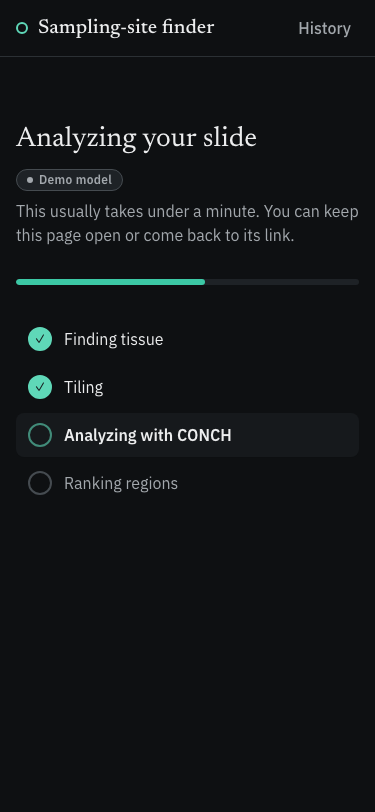
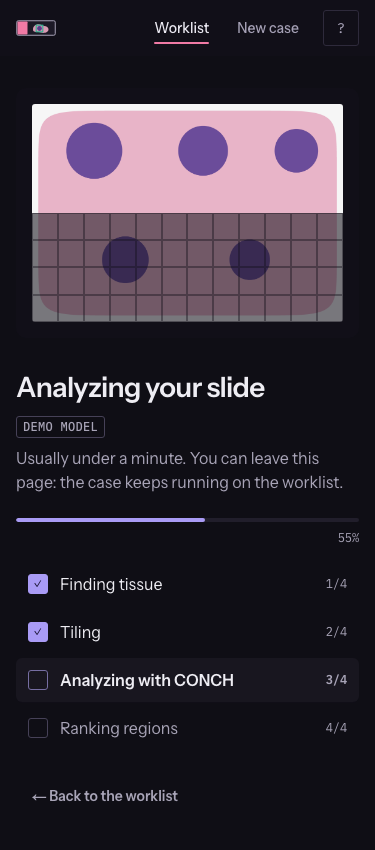
e2e, screenshots and docs for the redesign; polish from the walk-through
- Playwright: worklist row with local label, a two-slide batch with J and the
  sampling sheet, 375 px checks on the worklist and sheet; screenshots retaken
  (home/history replaced by worklist, worklist-empty and sheet).
- Fixes found on the way: thumbnails no longer request an image before it
  exists (console 404s); the sheet table scrolls on phones; the 1 mm scale bar
  is drawn in marker black; the header fits at 375 px; scored preview tiles
  lose their grid lines; the case heading's accessible name is 'Case <label>'.
- README and reports/decisions.md describe the pathologist features and why
  labels and notes stay in the browser.

diff --git a/frontend/e2e/flows.spec.ts b/frontend/e2e/flows.spec.ts
@@ -1,5 +1,5 @@
 import { readFileSync } from 'node:fs'
-import { expect, fixture, regionBoxes, test, uploadFromHome } from './fixtures'
+import { expect, fixture, regionBoxes, resultsReady, test, uploadFromHome } from './fixtures'
 
 const pct = (fraction: number) => `${Math.round(fraction * 100)}%`
 const LABELS: Record<string, string> = {
@@ -14,7 +14,7 @@ const LABELS: Record<string, string> = {
 test('full flow: upload a slide, see 5 regions, open region 3', async ({ page, request }) => {
   const id = await uploadFromHome(page, fixture('slide'))
 
-  await expect(page.getByRole('heading', { name: 'Suggested sampling sites' })).toBeVisible({ timeout: 30_000 })
+  await resultsReady(page)
   await expect(regionBoxes(page)).toHaveCount(5)
   await expect(page.getByText('Demo model').first()).toBeVisible()
 
@@ -49,23 +49,56 @@ test('full flow: upload a slide, see 5 regions, open region 3', async ({ page, r
   expect(b.width).toBeCloseTo(region3.w * scale, 0)
 })
 
-test('history: a finished analysis gets a card that opens its results', async ({ page }) => {
+test('worklist: a finished case gets a row with its numbers, and the local label follows it', async ({ page }) => {
   const id = await uploadFromHome(page, fixture('slide'))
-  await expect(page.getByRole('heading', { name: 'Suggested sampling sites' })).toBeVisible({ timeout: 30_000 })
-  await expect(page.getByText('Cancer type')).toBeVisible()
+  await resultsReady(page)
+  await page.getByRole('textbox', { name: 'Case label' }).fill('E2E-A1')
 
-  await page.getByRole('navigation').getByRole('link', { name: 'History' }).click()
-  await expect(page).toHaveURL(/\/history$/)
-  await expect(page.getByRole('heading', { name: 'History' })).toBeVisible()
-  const card = page.getByRole('link', { name: /Analysis/ }).first() // newest first
-  await expect(card).toHaveAttribute('href', `/jobs/${id}`)
-  await expect(card).toContainText('Not identified yet')
-  await expect(card).toContainText('Done')
-  await expect(card.locator('time')).toHaveAttribute('datetime', /^\d{4}-\d{2}-\d{2}T/)
+  await page.getByRole('navigation', { name: 'Main' }).getByRole('link', { name: 'Worklist' }).click()
+  await expect(page).toHaveURL(/\/$/)
+  await expect(page.getByRole('heading', { name: 'Worklist' })).toBeVisible()
+  const row = page.getByRole('listitem').filter({ has: page.getByRole('link', { name: 'Open case E2E-A1' }) })
+  await expect(row.getByRole('link')).toHaveAttribute('href', `/jobs/${id}`)
+  await expect(row).toContainText('tumor, best region')
+  await expect(row.locator('time')).toHaveAttribute('datetime', /^\d{4}-\d{2}-\d{2}T/)
+  await expect(row.getByTestId('thumb').locator('img')).toHaveAttribute('src', `/api/jobs/${id}/display.png`)
 
-  await card.click()
+  await row.getByRole('link').click()
   await expect(page).toHaveURL(new RegExp(`/jobs/${id}$`))
   await expect(regionBoxes(page)).toHaveCount(5)
+})
+
+test('a batch: two slides become two cases; J moves to the next one; the sampling sheet opens', async ({ page }) => {
+  // Other tests' cases share this worklist, so these two are told apart by their (local) labels.
+  await page.goto('/upload')
+  await page.locator('input[type="file"]').setInputFiles([fixture('slide'), fixture('slide')])
+  const labels = page.getByRole('textbox', { name: /^Case label for/ })
+  await labels.nth(0).fill('BATCH-1')
+  await labels.nth(1).fill('BATCH-2')
+  await page.getByRole('button', { name: 'Analyze 2 slides' }).click()
+  await expect(page).toHaveURL(/\/$/)
+  const one = page.getByRole('link', { name: 'Open case BATCH-1' })
+  const two = page.getByRole('link', { name: 'Open case BATCH-2' })
+  await expect(one).toBeVisible({ timeout: 10_000 })
+  await expect(two).toBeVisible()
+  for (const link of [one, two]) {
+    await expect(page.getByRole('listitem').filter({ has: link })).toContainText('tumor, best region', { timeout: 30_000 })
+  }
+
+  // Newest first: BATCH-2 is listed above BATCH-1, so "next" from BATCH-2 is BATCH-1.
+  const firstHref = (await one.getAttribute('href'))!
+  await two.click()
+  await resultsReady(page)
+  await page.locator('body').click({ position: { x: 5, y: 5 } })
+  await page.keyboard.press('j')
+  await expect(page).toHaveURL(new RegExp(`${firstHref}$`))
+
+  await resultsReady(page)
+  await expect(page.getByRole('textbox', { name: 'Case label' })).toHaveValue('BATCH-1')
+  await page.getByRole('link', { name: 'Sampling sheet' }).click()
+  await expect(page.getByRole('heading', { name: 'Sampling sheet' })).toBeVisible()
+  await expect(page.getByTestId('sheet-label')).toHaveText('BATCH-1')
+  await expect(page.getByTestId('sheet-instruction')).toContainText('Macrodissect region 1')
 })
 
 test('box size: 1 mm re-ranks through the API, and 0.5 mm brings the original boxes back', async ({ page, request }) => {
@@ -75,7 +108,7 @@ test('box size: 1 mm re-ranks through the API, and 0.5 mm brings the original bo
   const big = await (await request.get(`/api/jobs/${id}/regions?box_um=1024`)).json()
   expect(big.regions.length).toBeGreaterThan(0)
 
-  const sizes = page.getByRole('radiogroup', { name: 'Box size' })
+  const sizes = page.getByRole('radiogroup', { name: /box size/i })
   await sizes.getByText('1 mm', { exact: true }).click()
   await expect(regionBoxes(page)).toHaveCount(big.regions.length)
   await expect(page.getByRole('region', { name: 'Region details' }).getByTestId('size')).toContainText('1024 µm')
@@ -176,7 +209,7 @@ test('error flow: a blank image ends in the error state, and "Try another image"
   await expect(page.getByText('No tissue found in this image.')).toHaveAttribute('role', 'alert', { timeout: 30_000 })
   await page.getByRole('link', { name: 'Try another image' }).click()
   await expect(page).toHaveURL(/\/upload$/)
-  await expect(page.getByRole('heading', { name: 'Analyze a slide' })).toBeVisible()
+  await expect(page.getByRole('heading', { name: 'New case' })).toBeVisible()
 })
 
 test('an upload over 10 MB reaches FastAPI through the Next.js rewrite', async ({ request }) => {
@@ -198,15 +231,18 @@ test.describe('at 375 px', () => {
 
     await page.goto('/')
     await noHorizontalScroll()
-    await uploadFromHome(page, fixture('slide'))
+    const id = await uploadFromHome(page, fixture('slide'))
     await expect(regionBoxes(page)).toHaveCount(5, { timeout: 30_000 })
     await noHorizontalScroll()
-    await page.getByRole('link', { name: 'New analysis' }).click()
+    await page.getByRole('navigation', { name: 'Main' }).getByRole('link', { name: 'New case' }).click()
     await expect(page).toHaveURL(/\/upload$/)
     await page.locator('input[type="file"]').setInputFiles(fixture('slide'))
     await noHorizontalScroll()
-    await page.goto('/history')
-    await expect(page.getByRole('heading', { name: 'History' })).toBeVisible()
+    await page.goto('/')
+    await expect(page.getByRole('heading', { name: 'Worklist' })).toBeVisible()
+    await noHorizontalScroll()
+    await page.goto(`/jobs/${id}/sheet`)
+    await expect(page.getByRole('heading', { name: 'Sampling sheet' })).toBeVisible()
     await noHorizontalScroll()
   })
 })

diff --git a/frontend/components/SamplingSheet.tsx b/frontend/components/SamplingSheet.tsx
@@ -132,8 +132,9 @@ export default function SamplingSheet({
             )}
             {mmPx && (
               <div className="absolute right-3 bottom-3 text-right">
-                <div data-testid="scale-bar" style={{ width: percent(mmPx, width) }} className="ml-auto border-x-2 border-b-2 border-box-other pt-1.5 text-center">
-                  <span className="relative -top-5 font-mono text-[10px] font-semibold text-box-other">1 mm</span>
+                <div data-testid="scale-bar" style={{ width: percent(mmPx, width) }} className="ml-auto text-center">
+                  <span className="mb-1 inline-block rounded-[2px] bg-box-outline px-1 font-mono text-[10px] font-semibold text-box-other">1 mm</span>
+                  <span aria-hidden className="block h-1.5 border-x-2 border-b-2 border-box-outline" />
                 </div>
               </div>
             )}
@@ -144,7 +145,8 @@ export default function SamplingSheet({
           </figcaption>
         </figure>
 
-        <table aria-label="Regions" className="mt-6 w-full border-collapse text-sm">
+        <div className="mt-6 overflow-x-auto print:overflow-visible">
+        <table aria-label="Regions" className="w-full min-w-[30rem] border-collapse text-sm">
           <thead>
             <tr className="border-b border-ink text-left text-xs uppercase tracking-wide text-ink-muted">
               <th className="py-1.5 pr-3 font-medium">Region</th>
@@ -183,6 +185,7 @@ export default function SamplingSheet({
             )}
           </tbody>
         </table>
+        </div>
         <p className="mt-2 text-xs text-ink-muted">
           Minimum tumor fraction for sequencing: <span className="num">{threshold}%</span>. Fractions are estimated from tile
           classification, not cell counts.

diff --git a/frontend/e2e/screenshots.spec.ts b/frontend/e2e/screenshots.spec.ts
@@ -27,9 +27,9 @@ for (const width of WIDTHS) {
     test.describe(`${width} px, ${theme}`, () => {
       test.use({ viewport: { width, height: width < 768 ? 812 : 900 }, colorScheme: theme })
 
-      test('home, upload, analyzing, results and error screens', async ({ page }) => {
+      test('worklist, upload, analyzing, results, sampling sheet and error screens', async ({ page }) => {
         await page.goto('/')
-        await shoot(page, 'home', width, theme)
+        await shoot(page, 'worklist-empty', width, theme)
 
         await chooseFile(page, fixture('slide'))
         await shoot(page, 'upload', width, theme)
@@ -58,15 +58,19 @@ for (const width of WIDTHS) {
         await expect(page.getByTestId('heatmap')).toBeVisible()
         await page.getByRole('button', { name: /^Region 3:/ }).click()
         await shoot(page, 'results-heatmap', width, theme)
+        const jobUrl = page.url()
+        await page.goto(`${jobUrl}/sheet`)
+        await expect(page.getByTestId('sheet-instruction')).toContainText('Macrodissect')
+        await shoot(page, 'sheet', width, theme)
 
         await chooseFile(page, fixture('blank'))
         await page.getByRole('button', { name: 'Analyze slide' }).click()
         await expect(page.getByText('No tissue found in this image.')).toBeVisible({ timeout: 30_000 })
         await shoot(page, 'error', width, theme)
 
-        await page.goto('/history')
-        await expect(page.getByRole('link', { name: /Analysis/ }).first()).toBeVisible()
-        await shoot(page, 'history', width, theme)
+        await page.goto('/')
+        await expect(page.getByRole('link', { name: /^Open case/ }).first()).toBeVisible()
+        await shoot(page, 'worklist', width, theme)
       })
     })
   }

diff --git a/frontend/e2e/fixtures.ts b/frontend/e2e/fixtures.ts
@@ -24,10 +24,10 @@ export const test = base.extend<{ consoleErrors: string[] }>({
 
 export { expect }
 
-// Home → upload screen → pick a file → submit. Returns the job id from the URL.
+// Worklist → New case → pick a file → submit. Returns the job id from the URL.
 export async function uploadFromHome(page: Page, file: string) {
   await page.goto('/')
-  await page.getByRole('link', { name: 'Analyze a slide' }).click()
+  await page.getByRole('navigation', { name: 'Main' }).getByRole('link', { name: 'New case' }).click()
   await expect(page).toHaveURL(/\/upload$/)
   await page.locator('input[type="file"]').setInputFiles(file)
   await page.getByRole('button', { name: 'Analyze slide' }).click()
@@ -36,3 +36,6 @@ export async function uploadFromHome(page: Page, file: string) {
 }
 
 export const regionBoxes = (page: Page) => page.getByRole('button', { name: /^Region \d/ })
+
+// The results workspace is ready once its region table is on screen.
+export const resultsReady = (page: Page) => expect(page.getByRole('table', { name: 'Regions' })).toBeVisible({ timeout: 30_000 })

diff --git a/frontend/components/UploadForm.tsx b/frontend/components/UploadForm.tsx
@@ -200,11 +200,12 @@ export default function UploadForm() {
                       onChange={(e) => update(item.key, { label: e.target.value })}
                       disabled={item.state === 'sending' || item.state === 'sent'}
                       aria-label={`Case label for ${item.file.name}`}
-                      placeholder="Case label (stays on this computer)"
+                      placeholder="Case label, optional"
                       spellCheck={false}
                       className="h-8 w-full max-w-64 rounded-sm border border-line-strong bg-canvas px-2 font-mono text-sm text-ink placeholder:font-sans placeholder:text-xs placeholder:text-ink-muted"
                     />
                   </label>
+                  <p className="mt-1 text-[11px] text-ink-muted">Labels stay on this computer.</p>
                   {item.state === 'failed' && (
                     <p role="alert" className="mt-1 text-sm text-danger">
                       {item.error}

diff --git a/frontend/components/SiteHeader.tsx b/frontend/components/SiteHeader.tsx
@@ -18,12 +18,12 @@ export default function SiteHeader() {
       <div className="mx-auto flex h-14 max-w-[90rem] items-center gap-6 px-4 sm:px-6">
         <Link href="/" className="flex items-center gap-3 rounded-sm">
           <Logo className="h-4 w-10" />
-          <span className="text-base font-semibold tracking-tight">
+          <span className="sr-only sm:not-sr-only sm:text-base sm:font-semibold sm:tracking-tight sm:whitespace-nowrap">
             Sampling-site finder
             <span className="ml-2 hidden font-mono text-xs font-normal text-stage-muted sm:inline">research</span>
           </span>
         </Link>
-        <nav aria-label="Main" className="ml-auto flex items-center gap-1">
+        <nav aria-label="Main" className="ml-auto flex items-center gap-1 whitespace-nowrap">
           {NAV.map((n) => {
             const current = n.match(path)
             return (

diff --git a/frontend/components/Worklist.tsx b/frontend/components/Worklist.tsx
@@ -274,7 +274,8 @@ function Thumb({ job }: { job: JobSummary }) {
     <div data-testid="thumb" className="relative row-span-2 flex aspect-[7/3] items-center overflow-hidden rounded-sm bg-stage p-1 sm:row-span-1">
       <span aria-hidden className="h-full w-3 shrink-0 rounded-[2px] bg-eosin/80" />
       <div className="relative ml-1 h-full flex-1">
-        {job.status !== 'error' && (
+        {/* The display image exists from the tiling step on (progress 0.15); asking earlier is a 404. */}
+        {(job.status === 'done' || (job.status === 'running' && (job.progress ?? 0) >= 0.15)) && (
           <div className="relative mx-auto h-full" style={{ aspectRatio: `${w} / ${h}` }}>
             {/* eslint-disable-next-line @next/next/no-img-element */}
             <img src={`/api/jobs/${job.id}/display.png`} alt="" loading="lazy" className="h-full w-full object-contain" />

diff --git a/frontend/components/CaseBar.tsx b/frontend/components/CaseBar.tsx
@@ -45,14 +45,10 @@ export default function CaseBar({
         </Link>
         <div className="mt-2 flex flex-wrap items-center gap-x-3 gap-y-2">
           <h1 className="text-xl font-semibold tracking-tight">
-            <label htmlFor={field} className="sr-only">
-              Case label
-            </label>
-            <span aria-hidden className="mr-2 text-ink-muted">
-              Case
-            </span>
+            <span className="mr-2 text-ink-muted">Case</span>
             <input
               id={field}
+              aria-label="Case label"
               value={label}
               onChange={(e) => onLabel(e.target.value)}
               placeholder="add a label"

diff --git a/frontend/components/Analyzing.tsx b/frontend/components/Analyzing.tsx
@@ -67,7 +67,7 @@ export default function Analyzing({ id, status }: { id?: string; status: JobStat
                   key={i}
                   data-testid="preview-tile"
                   data-lit={i < lit}
-                  className={`border-[0.5px] border-stage/40 transition-colors duration-slow ${i < lit ? 'bg-transparent' : 'bg-stage/55'}`}
+                  className={`border-[0.5px] transition-colors duration-slow ${i < lit ? 'border-transparent bg-transparent' : 'border-stage/40 bg-stage/55'}`}
                 />
               ))}
             </div>

diff --git a/reports/decisions.md b/reports/decisions.md
@@ -201,3 +201,18 @@ One line each: decision + reason.
 - The box is re-scored while it's being dragged, not only on release: every pointer move asks the measure endpoint, with at most one request out at a time and only the newest box waiting behind it, so the numbers keep up without a request per pixel. Drawing a new box is scored the same way. Arrow keys still wait 300 ms after the last key.
 - All scoring stays in Python (the measure endpoint); the frontend holds no ML, as the README says.
 - The 0.5 / 1 / 2 mm picker is unchanged: it re-ranks the five suggestions at a punch size, which is a different job from reshaping one box.
+
+## Pathologist-first redesign ("the bench")
+- The UI was rebuilt around a pathologist's day rather than one upload at a time: a worklist home, a case workspace, batch upload and a sampling sheet. Design rationale and tokens: `frontend/DESIGN.md`.
+- Look: chrome in stain colors (hematoxylin indigo for actions, eosin rose as the one highlight), annotations in marker ink (the box tokens and their contrast tests are unchanged), the slide on a dark stage in both themes, Instrument Sans + IBM Plex Mono (Newsreader and Plex Sans removed). Every new color pair has a contrast test; stage tokens are tested to stay the same in dark mode.
+- Home is the worklist; `/history` redirects to it. `GET /api/jobs` summaries gained organ, best-region tumor/necrosis, region count, progress, the best box and the image size, all read from the stored Result JSON and the live job. Nothing new is stored.
+- Thumbnails load `display.png` only once it exists (done, or running past the tiling step at progress 0.15), so a fresh case doesn't log a 404.
+- The sequencing threshold (default 20%) and each case's label, notes, reviewed tick and own box live in `localStorage` (`lib/casebook.ts`). They never reach the API or the Postgres history, because labels and notes can identify a patient; a test checks that uploads send only file, mpp and organ, and another that typing a label or note makes no request carrying it. The trade-off: they don't follow the user to another browser.
+- "Meets the threshold" compares the rounded percentage shown (62% vs. 20), so a box shown as 20% never reads as below a 20% minimum.
+- Zoom widens the slide inside a scrolling stage instead of using CSS transforms, so box drawing and resizing (which measure the image as drawn) work unchanged at every zoom. Ctrl/⌘ + scroll zooms around the pointer; the listener is non-passive so the page itself doesn't zoom.
+- Keyboard shortcuts ignore keys typed in fields and keys with Ctrl/⌘/Alt held. J/K follow worklist order (newest first), so J ("next") moves to the case below.
+- Batch upload sends slides one after another and lands on the worklist; a single slide still opens its case. A failed upload keeps its reason and can be resent; sent ones link to their case.
+- The analyzing screen shows the uploaded image (available from the tiling step) with a 12 × 8 grid that lights up with progress. It's a picture of progress, not of the real tile grid, and the code says so.
+- The sampling sheet takes the pathologist's own box (from this browser), re-measured, as the instruction when there is one, else region 1. Its 1 mm scale bar comes from any region's known size. Print styles drop the header and force a white page with exact colors.
+- Tests: Node 26 defines its own `localStorage` global (undefined without `--localstorage-file`), which hid jsdom's, so `vitest.setup.ts` installs an in-memory one. Unit tests can't mount Next's router, so the results screen opens the sheet with `window.location.assign` for the P key.
+- Removed with their tests: `RequestCard`, `RequestMeta` and the old history page; their behavior (one link per case, machine-readable time, demo badge, status) is covered by the worklist tests.

diff --git a/README.md b/README.md
@@ -1,12 +1,24 @@
 # ashby-puppymoggers
 
-A web app for the Ashby Hackathon (UIUC). Upload a photo or scan of an H&E biopsy slide, and it suggests the five best regions to sample. The backend tiles the image, scores each tile with the CONCH pathology model (zero-shot), and ranks regions by tumor content, necrosis and evenness. Each suggestion comes with its estimated tissue composition and rule-based reasons. The results screen lets you switch the box size (0.5, 1 or 2 mm, to match the punch or core you'll cut); this re-ranks the stored tile scores without running the model again. You can also draw your own box of any shape, or adjust a suggested one: drag to move it, drag a handle to resize it (arrow keys work too), and its composition and score are measured from the same tile scores. **Research prototype, not for clinical use.**
+A web app for the Ashby Hackathon (UIUC) that helps a pathologist decide where to cut. Upload one H&E slide or a batch (scans or photos). The backend tiles each image, scores every tile with the CONCH pathology model (zero-shot), and ranks regions by tumor content, necrosis and evenness. **Research prototype, not for clinical use.**
+
+What a pathologist gets:
+
+- **Worklist:** every case with a slide thumbnail, best-region tumor %, a "ready for sequencing" verdict, live progress for running cases, search, filters and a reviewed tick.
+- **Case workspace:**
+  - the slide on a dark stage, with zoom and a tumor heatmap at adjustable opacity;
+  - the five suggested regions as numbered boxes and in a sortable table;
+  - each region checked against the lab's minimum tumor fraction for sequencing (default 20%).
+- **Boxes you can reshape:** grab any box by a corner or edge, or draw your own; the numbers are re-measured while you drag, from the stored tile scores. Suggestions can also be re-ranked at 0.5, 1 or 2 mm to match a punch.
+- **Sampling sheet:** a print-ready page for the histotech, with the instruction, the slide with numbered boxes and a 1 mm scale bar, the region table, notes and sign-off lines. **Copy summary** puts the same numbers on the clipboard for the report.
+- **Case labels, notes and reviewed ticks stay in your browser**, never on the server or in the shared history, because they can identify a patient.
+- **Keyboard first:** 1–9 regions, H heatmap, D draw, +/−/0 zoom, J/K next/previous case, P sheet, ? for the list.
 
 ## How it fits together
 
 - `frontend/`: the Next.js app (App Router, TypeScript, Tailwind CSS) that people use. It holds no ML.
 - `backend/`: a FastAPI service with all the ML logic in Python: reading slides (OpenSlide, Pillow), tiling, CONCH scoring and region ranking.
-- Request history: every analysis is recorded in Postgres (a Tiger Cloud service) when `DATABASE_URL` is set in `.env`, else in memory. Only job metadata and the result numbers are stored, never the image or its filename; images stay in `data/jobs/` on this machine. `/history` lists the requests as cards linking to their results.
+- Request history: every analysis is recorded in Postgres (a Tiger Cloud service) when `DATABASE_URL` is set in `.env`, else in memory. Only job metadata and the result numbers are stored, never the image or its filename; images stay in `data/jobs/` on this machine. The worklist (`/`) reads them; `/history` redirects there.
 - The browser only talks to Next.js. Next.js forwards every `/api/*` request to FastAPI (`API_URL`, default `http://localhost:8000`), so both run as one site with no CORS setup.
 
 Build plan: `.claude/implementation-steps.md`. Agent rules: `.claude/AGENTS.md`, `.claude/CLAUDE.md`, `.claude/rules.md`.
